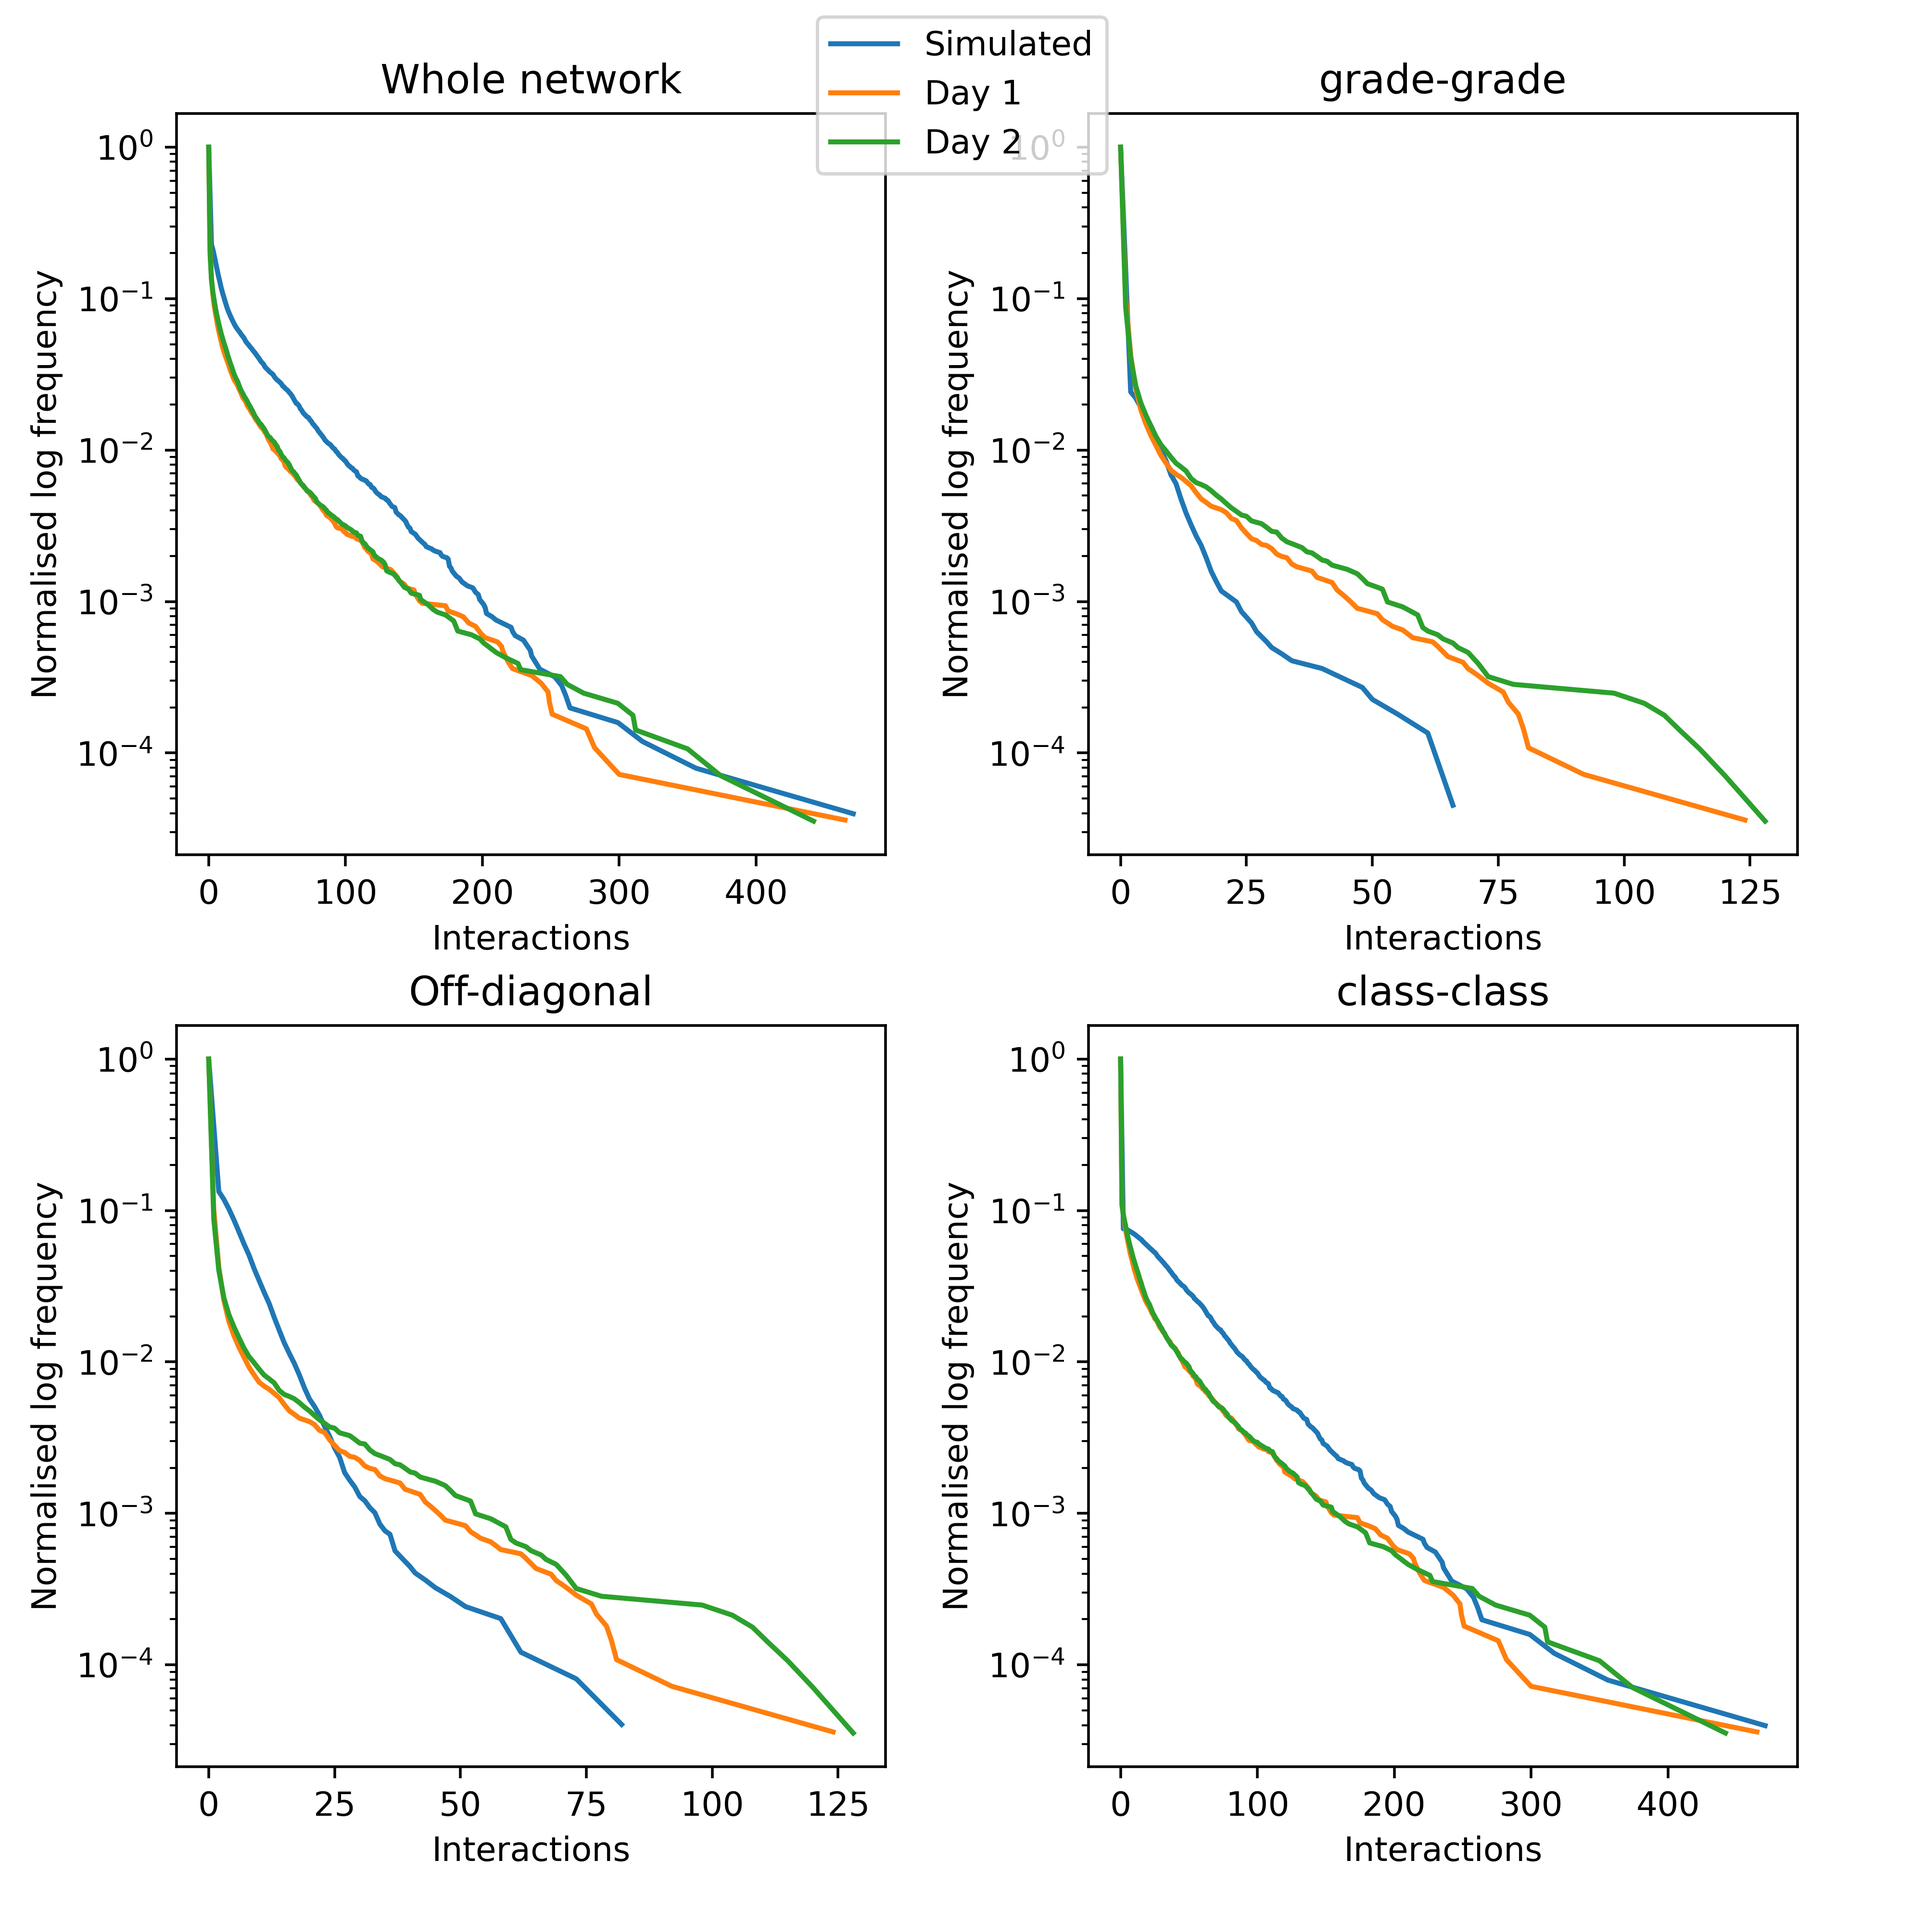
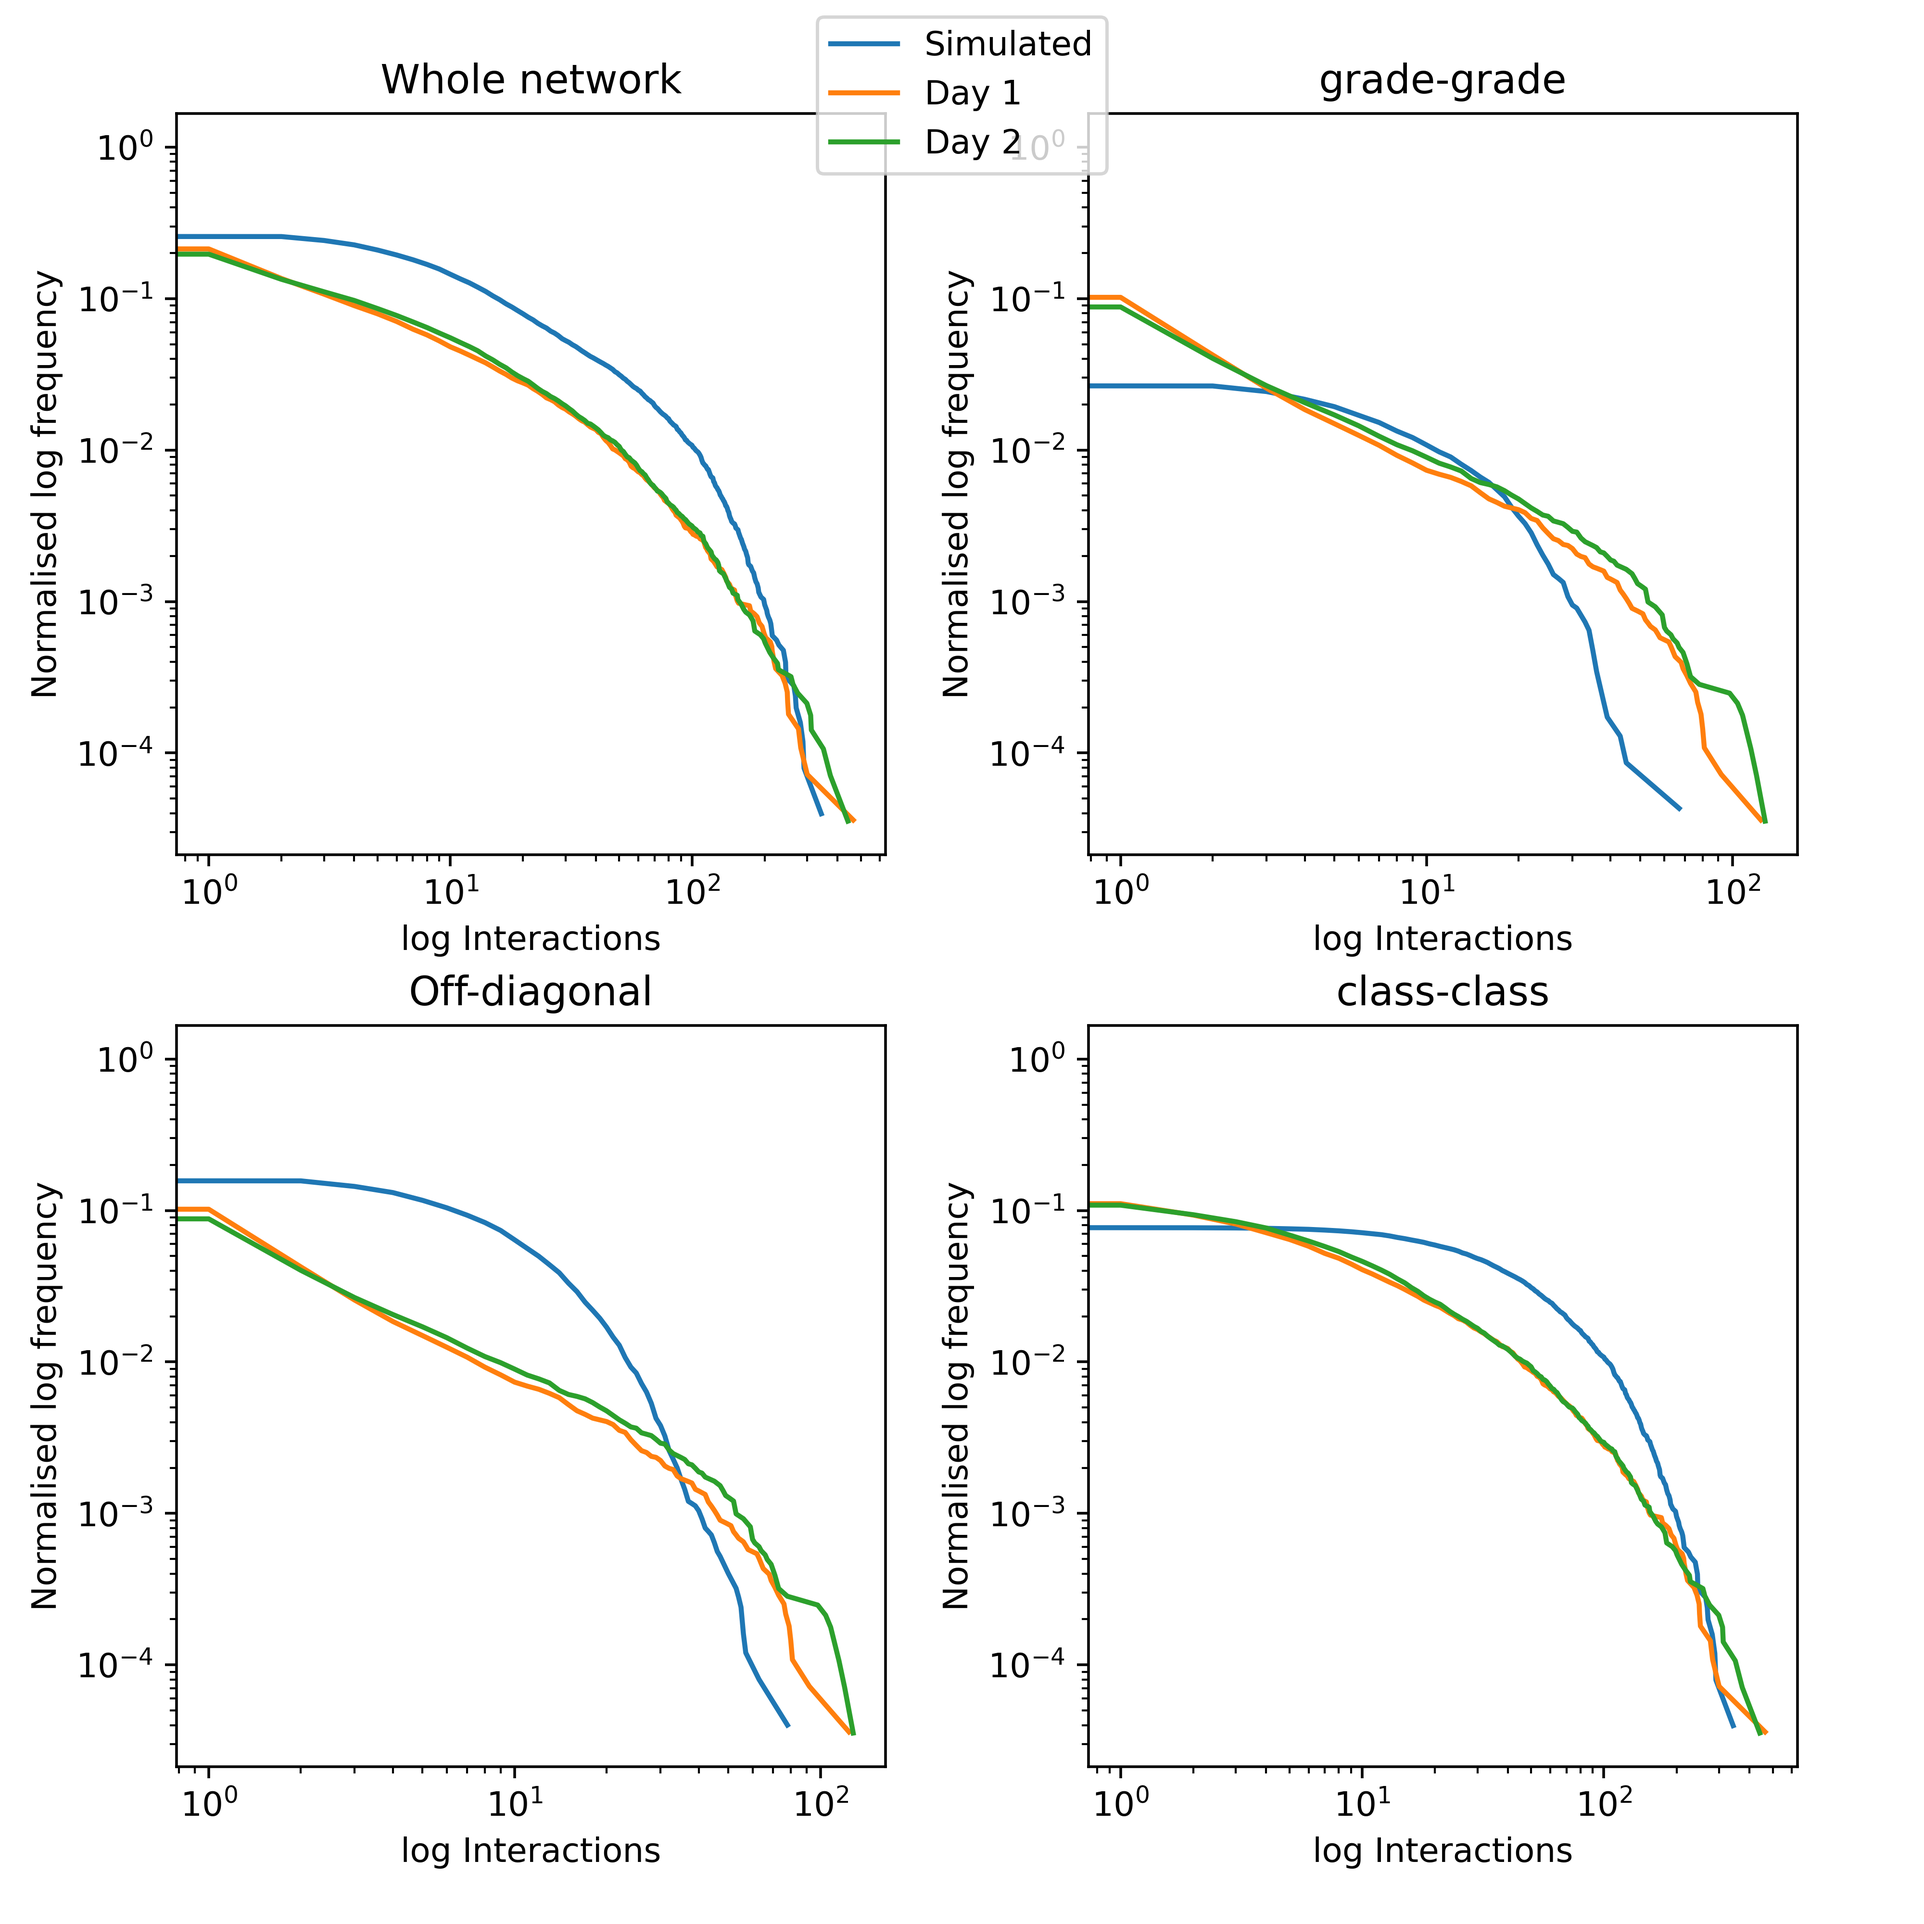
parameter estimation

diff --git a/person.py b/person.py
@@ -259,8 +259,9 @@ class Person:
             b4 = X[7]
         else:
             ## Off-diagonal excluding lunch
-            a1 = 3  # 1.5
-            b1 = 0.6  # 0.1
+            a1 =4.75  # 1.5
+            b1 = 0.5  # 0.1
+
             ##  Off-diagonal with lunch
             a2 = 0.1  # 0.001
             b2 = 0.1  # 0.07
@@ -320,13 +321,13 @@ class Person:
 
         oldMean = np.mean(list(self.bias_vector.values()))
 
-        correction = normTarget / oldMean
+        correction = oldMean / normTarget
         newVector = {}
 
         for i in self.bias_vector:
             newVector[i] = self.bias_vector[i] * correction
 
-        self.bias_vector = newVector
+        self.bias_vector = newVector.copy()
 
     def __str__(self):
         return (

diff --git a/analysis.py b/analysis.py
@@ -269,7 +269,7 @@ class Analysis:
         figure.tight_layout(pad=3)
 
         ## Setting up wether or not the x and y axis are log10 scale
-        logx = False
+        logx = True
         logy = True
 
         ## Adding the whole graph pixel distribution to the [0,0] position of the graph
@@ -623,7 +623,7 @@ class Analysis:
         ## Adding a combined label according to the labels specified when plotting
         handles, labels = axis[1, 1].get_legend_handles_labels()
         figure.legend(handles, labels, loc="center")  # loc="lower center"
-
+        plt.savefig("./fig_master/degree_dist.png", transparent=True, dpi=500)
         plt.show()
 
     def outlierDist(self, graph) -> None:

diff --git a/main.py b/main.py
@@ -19,9 +19,9 @@ def main():
     G = network.generate_iterations(10)
 
     analysis.pixel_dist_school(G, old=True, both=True)
-    analysis.degree_distribution_layers(sim=G, experimental=True, both=True)
-    analysis.heatmap(G)
-    analysis.runAnalysis2(G)
+    #analysis.degree_distribution_layers(sim=G, experimental=True, both=True)
+    #analysis.heatmap(G)
+    #analysis.runAnalysis2(G)
 
 
 main()
